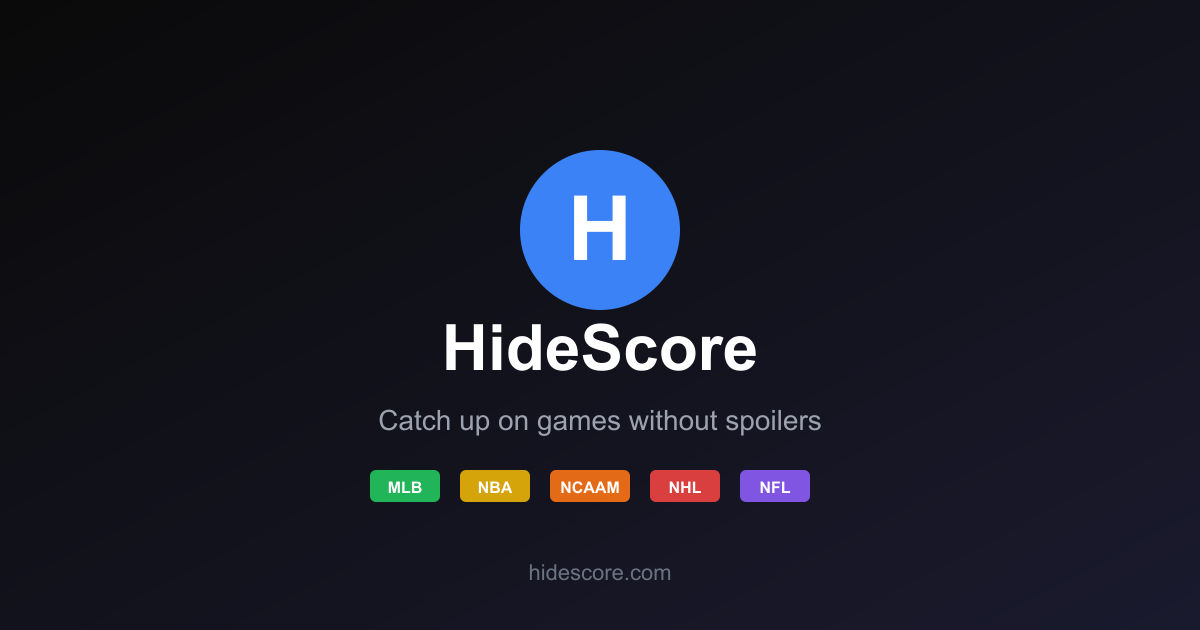
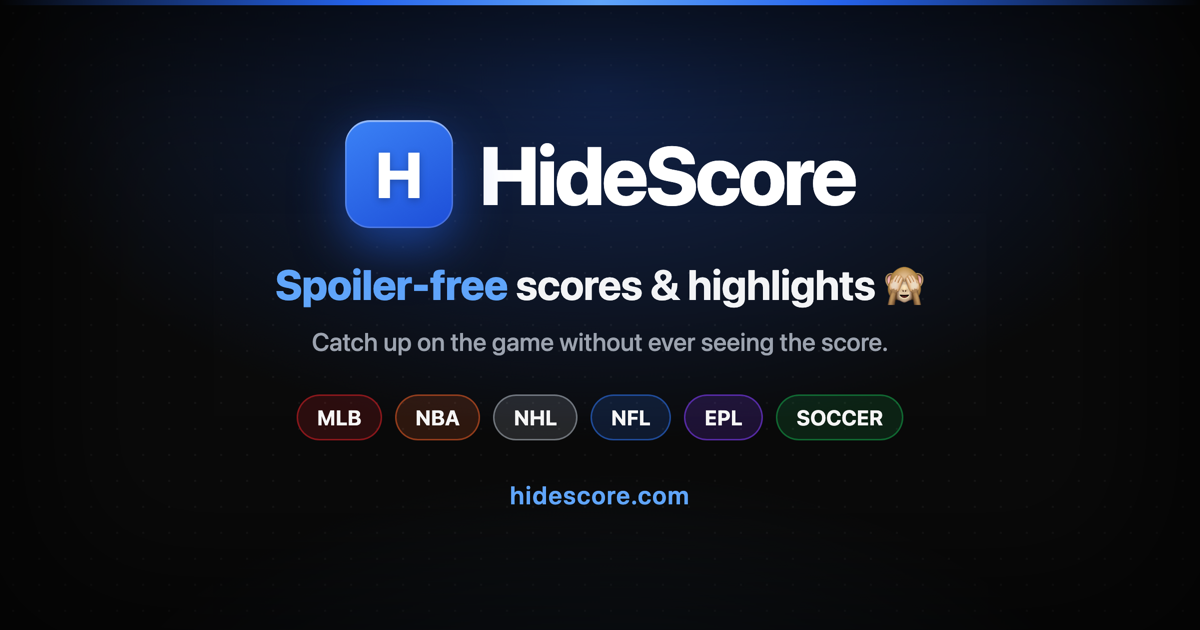
News link previews: unfurl the actual pic/video + refreshed default card
Shared news links (Reddit photos, goal/highlight clips, YouTube videos)
showed the generic site blob because the worker only rewrote OG meta for
game matchup cards (?c=). Now news shares unfurl too:

- og:image/twitter:image -> the item's photo (hi), video poster (hp), or
  YouTube thumbnail (v), routed through weserv (handles redd.it webp +
  hotlink, crops to 1.91:1, &default= falls back to the site card on a
  dead source so a broken link never beats the blob).
- og:title -> the headline (ht); description carries the source label (hl).
- Game recaps (?c=) keep their spoiler-free teams+date card, unchanged.

Adds a ?hp= poster param (shareCard.ts/VideoModal/HomeContent) so
redd.it/NHL/MLB video shares carry a still. Refreshes public/og-image.png
with a cleaner on-brand default card.

diff --git a/public/_worker.js b/public/_worker.js
@@ -41,6 +41,19 @@ class AttrSetter {
 // and the CDN fetch a fresh URL instead of a stale cached image.
 const CARD_REV = 2;
 
+// Wrap an arbitrary news image (Reddit photo, preview thumb, league poster, or
+// YouTube still) for use as the social-card image. Routed through weserv — the
+// SAME proxy the app already uses for every redd.it thumbnail (see proxyImage in
+// src/lib/news.ts): it normalizes Reddit's webp-as-jpeg + hotlink blocks, crops
+// to the 1.91:1 OG frame with a smart focal point, and — via &default= — serves
+// the branded site card if the source ever 404s, so a dead link can never beat
+// the default blob.
+function newsOgImage(raw) {
+  const src = raw.replace(/^https?:\/\//, "");
+  const fallback = encodeURIComponent("https://hidescore.com/og-image.png");
+  return `https://images.weserv.nl/?url=${encodeURIComponent(src)}&w=1200&h=630&fit=cover&a=attention&output=jpg&q=82&default=${fallback}`;
+}
+
 export default {
   async fetch(request, env) {
    try {
@@ -104,6 +117,49 @@ export default {
         .on('meta[name="twitter:title"]', new AttrSetter("content", meta.title))
         .on('meta[property="og:description"]', new AttrSetter("content", meta.desc))
         .on('meta[name="twitter:description"]', new AttrSetter("content", meta.desc))
+        .on('meta[property="og:url"]', new AttrSetter("content", url.toString()))
+        .transform(assetRes);
+    }
+
+    // --- News / highlight social preview: when a shared link carries a news
+    // item's media (image post, video poster, or YouTube id) but NO matchup
+    // card, unfurl with the actual photo / video still instead of the generic
+    // site blob. This is the fix for "links to a news pic/video show my generic
+    // blob." Producer: buildHighlightShareUrl in src/lib/shareCard.ts.
+    //   hi = image-post URL · hp = video poster · v = YouTube id
+    //   ht = headline (OG title) · hl = source label (e.g. "r/soccer")
+    // Game recaps (?c=) are handled above and KEEP their spoiler-free teams+date
+    // card on purpose; news items have no card and land here.
+    const newsImg = url.searchParams.get("hi");
+    const newsPoster = url.searchParams.get("hp");
+    const newsVid = url.searchParams.get("v");
+    const newsHead = url.searchParams.get("ht");
+    const newsLabel = url.searchParams.get("hl");
+    if (
+      (url.pathname === "/" || url.pathname === "/index.html") &&
+      (newsImg || newsPoster || newsHead || newsVid)
+    ) {
+      // Prefer the explicit image/poster; fall back to YouTube's own thumbnail
+      // for video shares that carry only a ?v= id (ESPN / NBA / MLB top videos).
+      let rawImg = newsImg || newsPoster;
+      if (!rawImg && newsVid && /^[A-Za-z0-9_-]{6,15}$/.test(newsVid)) {
+        rawImg = `https://i.ytimg.com/vi/${newsVid}/hqdefault.jpg`;
+      }
+      const image = rawImg ? newsOgImage(rawImg) : "https://hidescore.com/og-image.png";
+      const title = newsHead
+        ? (newsHead.length > 110 ? `${newsHead.slice(0, 109)}…` : newsHead)
+        : "HideScore — No Spoiler Sports";
+      const desc = newsLabel
+        ? `${newsLabel} · Watch on HideScore — catch up without seeing the score.`
+        : "Watch the highlight on HideScore — catch up without seeing the score.";
+      const assetRes = await env.ASSETS.fetch(new Request(new URL("/", url), { method: "GET" }));
+      return new HTMLRewriter()
+        .on('meta[property="og:image"]', new AttrSetter("content", image))
+        .on('meta[name="twitter:image"]', new AttrSetter("content", image))
+        .on('meta[property="og:title"]', new AttrSetter("content", title))
+        .on('meta[name="twitter:title"]', new AttrSetter("content", title))
+        .on('meta[property="og:description"]', new AttrSetter("content", desc))
+        .on('meta[name="twitter:description"]', new AttrSetter("content", desc))
         .on('meta[property="og:url"]', new AttrSetter("content", url.toString()))
         .transform(assetRes);
     }

diff --git a/src/components/HomeContent.tsx b/src/components/HomeContent.tsx
@@ -564,7 +564,7 @@ export default function HomeContent({ initialOffset, worldCupHub }: { initialOff
         const keep = new URLSearchParams();
         // Preserve any highlight deep-link params (?v= and the h*-prefixed media
         // a non-YouTube clip carries) while stripping the consumed pref params.
-        for (const k of ["v", "hs", "he", "hi", "hu", "hl", "ht", "c"]) {
+        for (const k of ["v", "hs", "he", "hi", "hp", "hu", "hl", "ht", "c"]) {
           const val = params.get(k);
           if (val) keep.set(k, val);
         }
@@ -582,8 +582,9 @@ export default function HomeContent({ initialOffset, worldCupHub }: { initialOff
       const hSource = params.get("hu") || "";
       const hLabel = params.get("hl");
       const hHead = params.get("ht");
+      const hPoster = params.get("hp");
       if (sharedVideoId) {
-        setVideoModal({ videoId: sharedVideoId, fallbackUrl: hSource, sourceLabel: hLabel, headline: hHead });
+        setVideoModal({ videoId: sharedVideoId, fallbackUrl: hSource, sourceLabel: hLabel, headline: hHead, poster: hPoster });
       } else if (hStream || hEmbed || hImage) {
         setVideoModal({
           videoId: "",
@@ -591,7 +592,7 @@ export default function HomeContent({ initialOffset, worldCupHub }: { initialOff
           playbackUrl: hStream || null,
           embedUrl: hEmbed || null,
           imageUrl: hImage || null,
-          poster: hImage || null,
+          poster: hImage || hPoster || null,
           sourceLabel: hLabel || null,
           headline: hHead || null,
         });

diff --git a/src/lib/shareCard.ts b/src/lib/shareCard.ts
@@ -71,6 +71,7 @@ export interface HighlightShareParams {
   playbackUrl?: string | null; // direct HLS/MP4 stream (redd.it / streamff / MLB)
   embedUrl?: string | null; // Brightcove-style iframe (NHL recaps)
   imageUrl?: string | null; // image-post lightbox (i.redd.it)
+  posterUrl?: string | null; // video poster/thumbnail — drives the link-preview image for VIDEO shares (image posts already preview via imageUrl→hi)
   sourceUrl?: string | null; // original source — the "Open on …" fallback
   sourceLabel?: string | null; // friendly source name ("r/worldcup")
   headline?: string | null; // post title, for the preview/text card
@@ -99,6 +100,10 @@ export function buildHighlightShareUrl(p: HighlightShareParams): string | null {
   if (p.sourceUrl) sp.set("hu", p.sourceUrl);
   if (p.sourceLabel) sp.set("hl", p.sourceLabel);
   if (p.headline) sp.set("ht", p.headline);
+  // Poster for the social unfurl of a VIDEO share — the worker uses ?hp as the
+  // OG image so the link previews the clip's still (redd.it / NHL / MLB videos).
+  // Image posts already carry their picture in ?hi, so skip ?hp there.
+  if (p.posterUrl && !p.imageUrl) sp.set("hp", p.posterUrl);
   if (p.cardKey) sp.set("c", p.cardKey);
   return `https://hidescore.com/?${sp.toString()}`;
 }

diff --git a/src/components/VideoModal.tsx b/src/components/VideoModal.tsx
@@ -314,6 +314,7 @@ export default function VideoModal({ videoId, fallbackUrl, onClose, playbackUrl,
     playbackUrl,
     embedUrl,
     imageUrl,
+    posterUrl: poster,
     sourceUrl: fallbackUrl,
     sourceLabel,
     headline,
